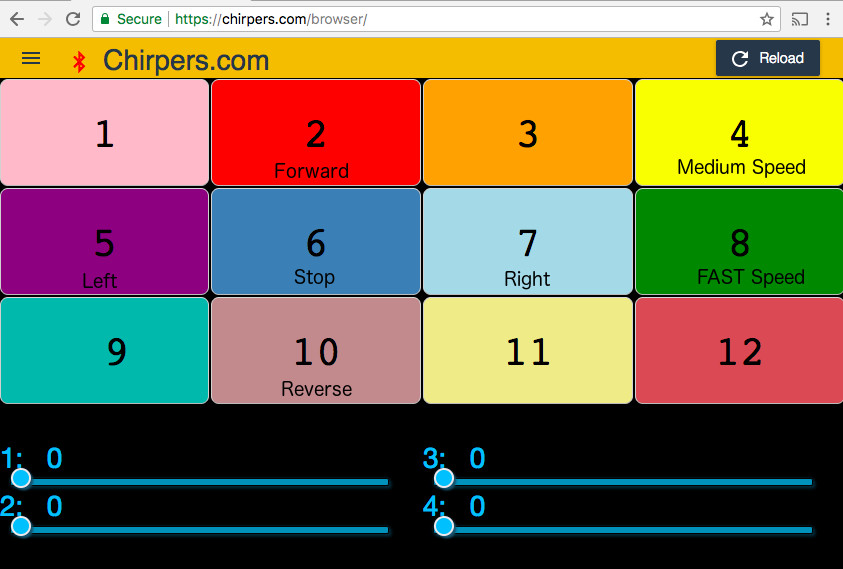
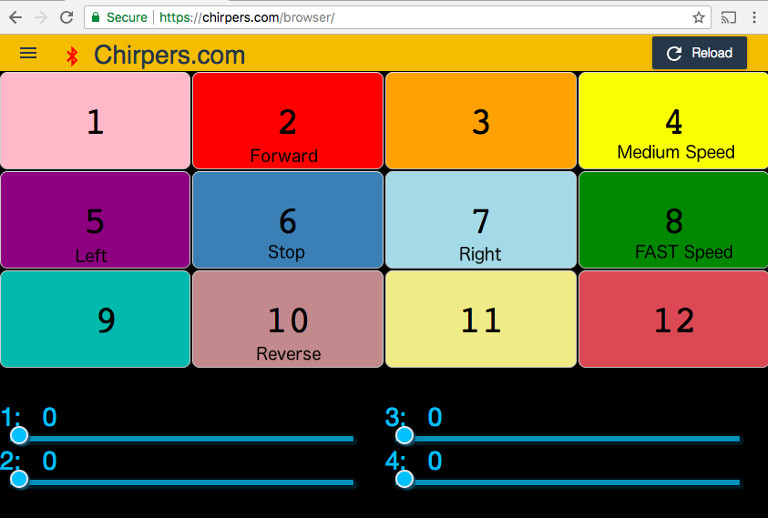
initial

diff --git a/README.md b/README.md
@@ -55,6 +55,8 @@
 
 Import -> Examples -> syngery esp32 bot
 
+![chirpers](chirpers.jpg)
+
 or copy and paste:
 
 ```javascript
